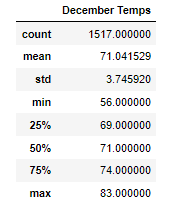
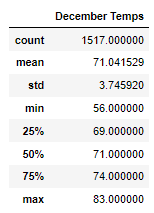
modified size of png images

diff --git a/README.md b/README.md
@@ -1,1 +1,12 @@
-# surfs_up
+# Surfs Up!
+## Overview of Analysis:
+
+
+## Results:
+
+<img src=Resources\june_temps_stats.png>
+
+<img src=Resources\Dec_temps_stats.png>
+
+
+## Summary:
